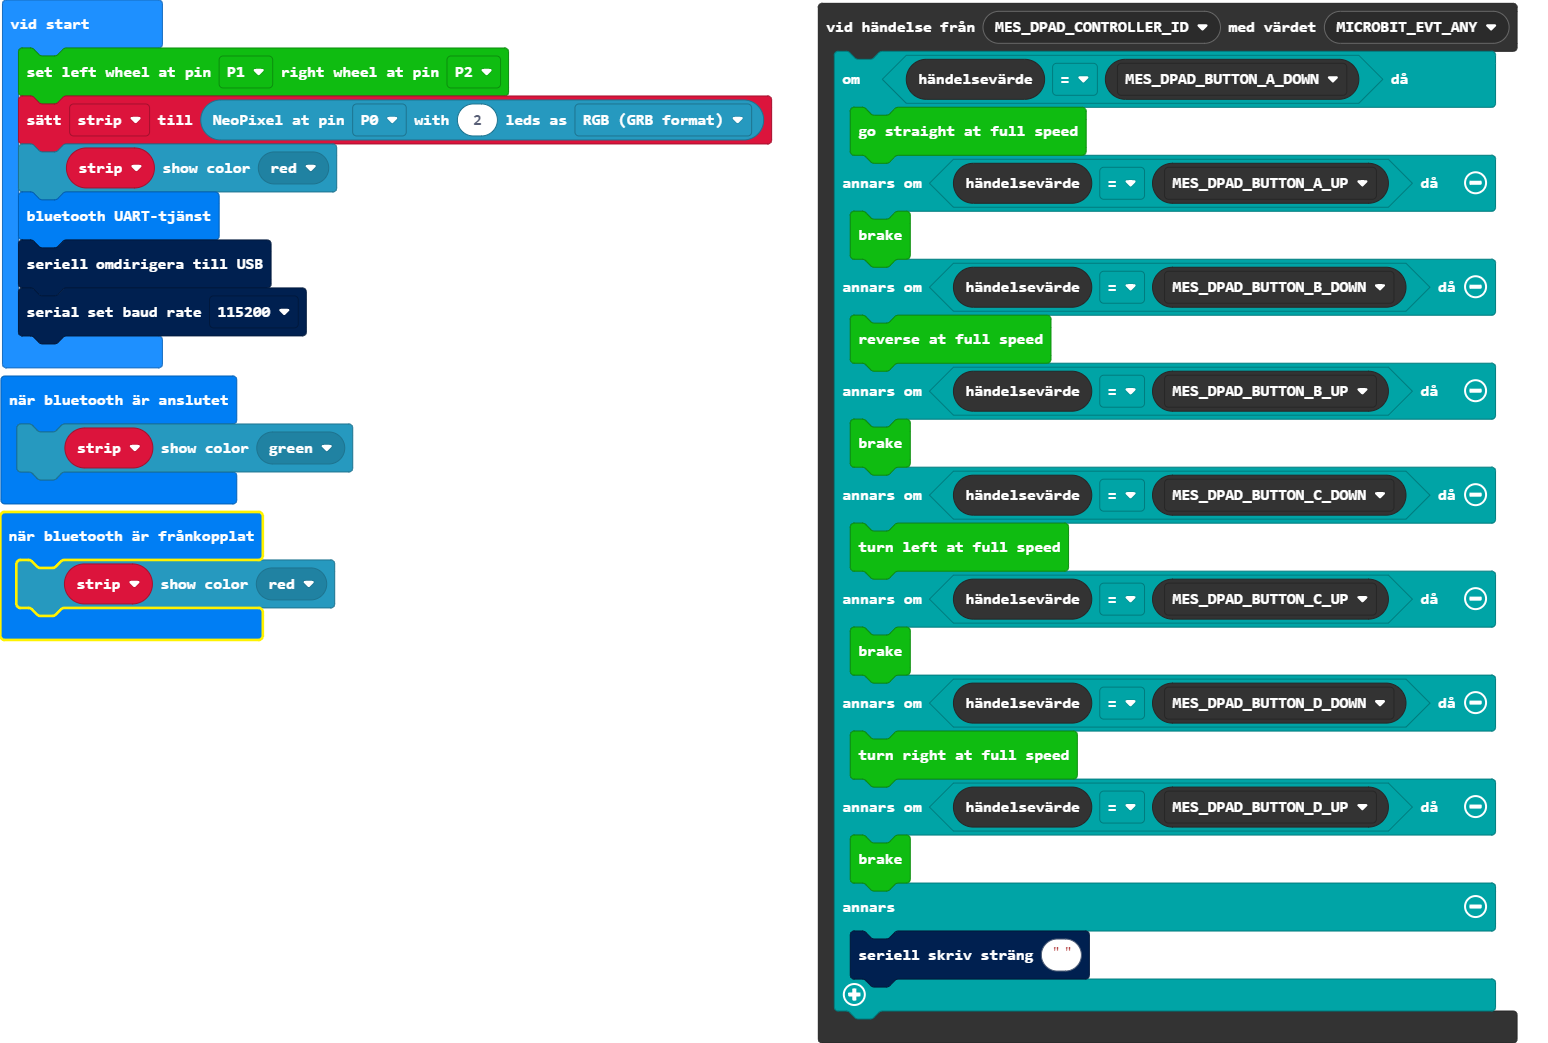
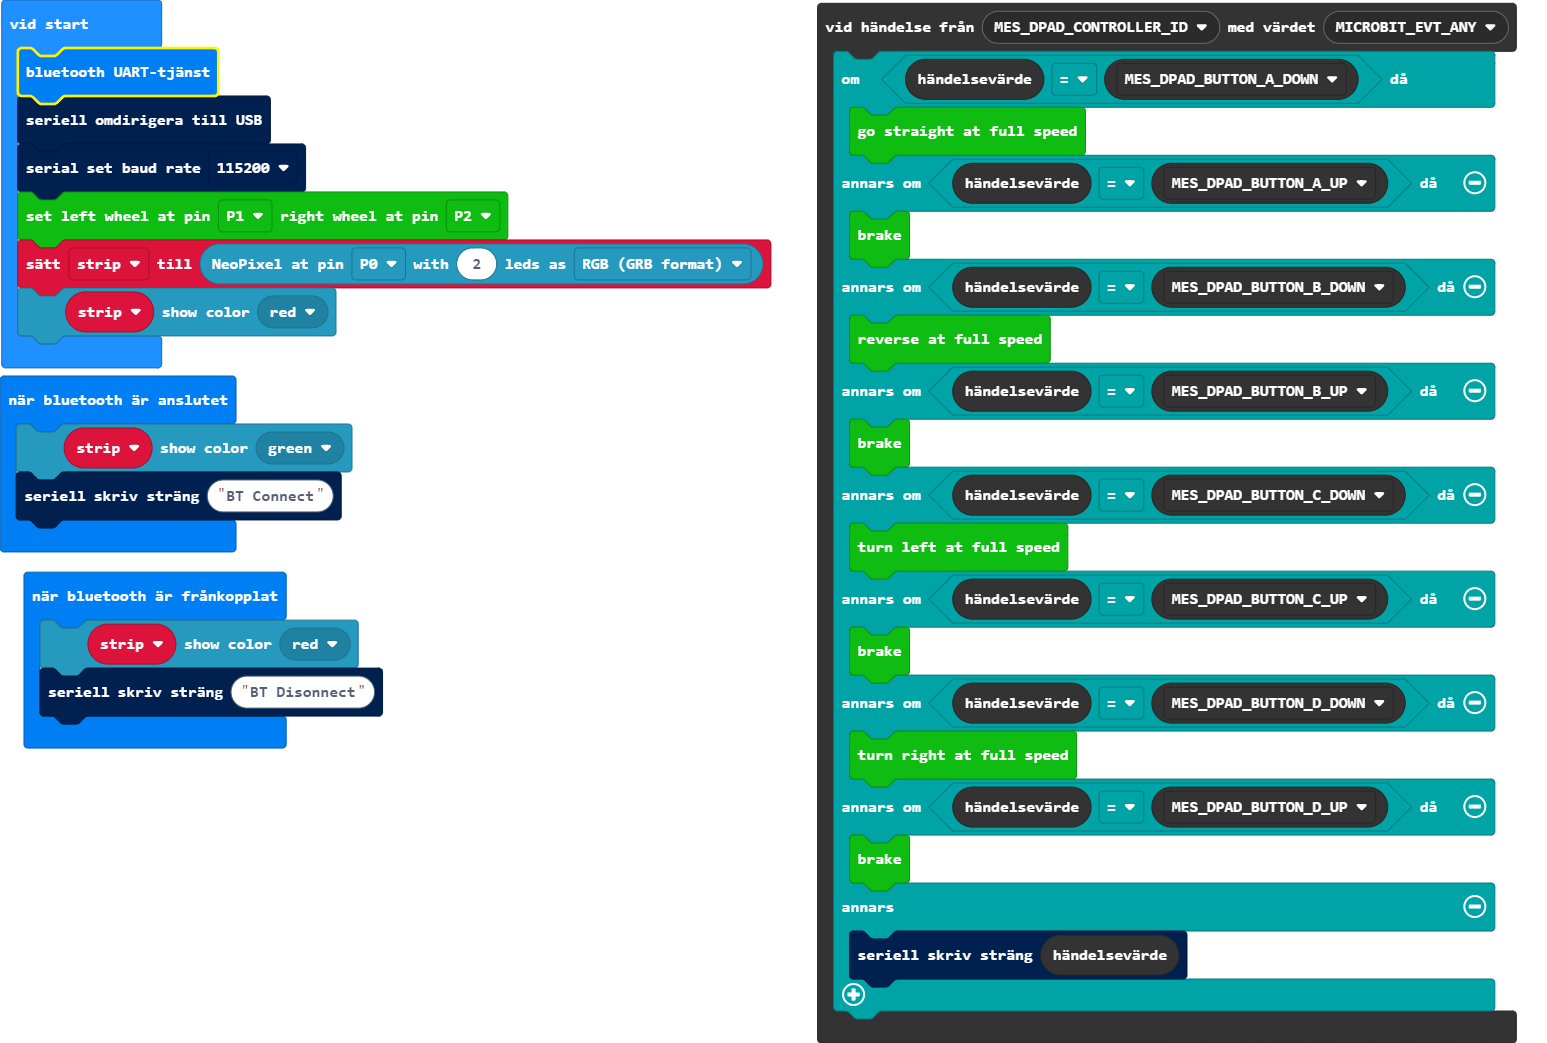
Uppdatera main.blocks, main.ts

diff --git a/main.ts b/main.ts
@@ -1,8 +1,10 @@
 bluetooth.onBluetoothConnected(function () {
     strip.showColor(neopixel.colors(NeoPixelColors.Green))
+    serial.writeString("BT Connect")
 })
 bluetooth.onBluetoothDisconnected(function () {
     strip.showColor(neopixel.colors(NeoPixelColors.Red))
+    serial.writeString("BT Disonnect")
 })
 control.onEvent(EventBusSource.MES_DPAD_CONTROLLER_ID, EventBusValue.MICROBIT_EVT_ANY, function () {
     if (control.eventValue() == EventBusValue.MES_DPAD_BUTTON_A_DOWN) {
@@ -22,13 +24,13 @@ control.onEvent(EventBusSource.MES_DPAD_CONTROLLER_ID, EventBusValue.MICROBIT_EV
     } else if (control.eventValue() == EventBusValue.MES_DPAD_BUTTON_D_UP) {
         RingbitCar.brake()
     } else {
-        serial.writeString("")
+        serial.writeString("" + (control.eventValue()))
     }
 })
 let strip: neopixel.Strip = null
-RingbitCar.init_wheel(AnalogPin.P1, AnalogPin.P2)
-strip = neopixel.create(DigitalPin.P0, 2, NeoPixelMode.RGB)
-strip.showColor(neopixel.colors(NeoPixelColors.Red))
 bluetooth.startUartService()
 serial.redirectToUSB()
 serial.setBaudRate(BaudRate.BaudRate115200)
+RingbitCar.init_wheel(AnalogPin.P1, AnalogPin.P2)
+strip = neopixel.create(DigitalPin.P0, 2, NeoPixelMode.RGB)
+strip.showColor(neopixel.colors(NeoPixelColors.Red))
